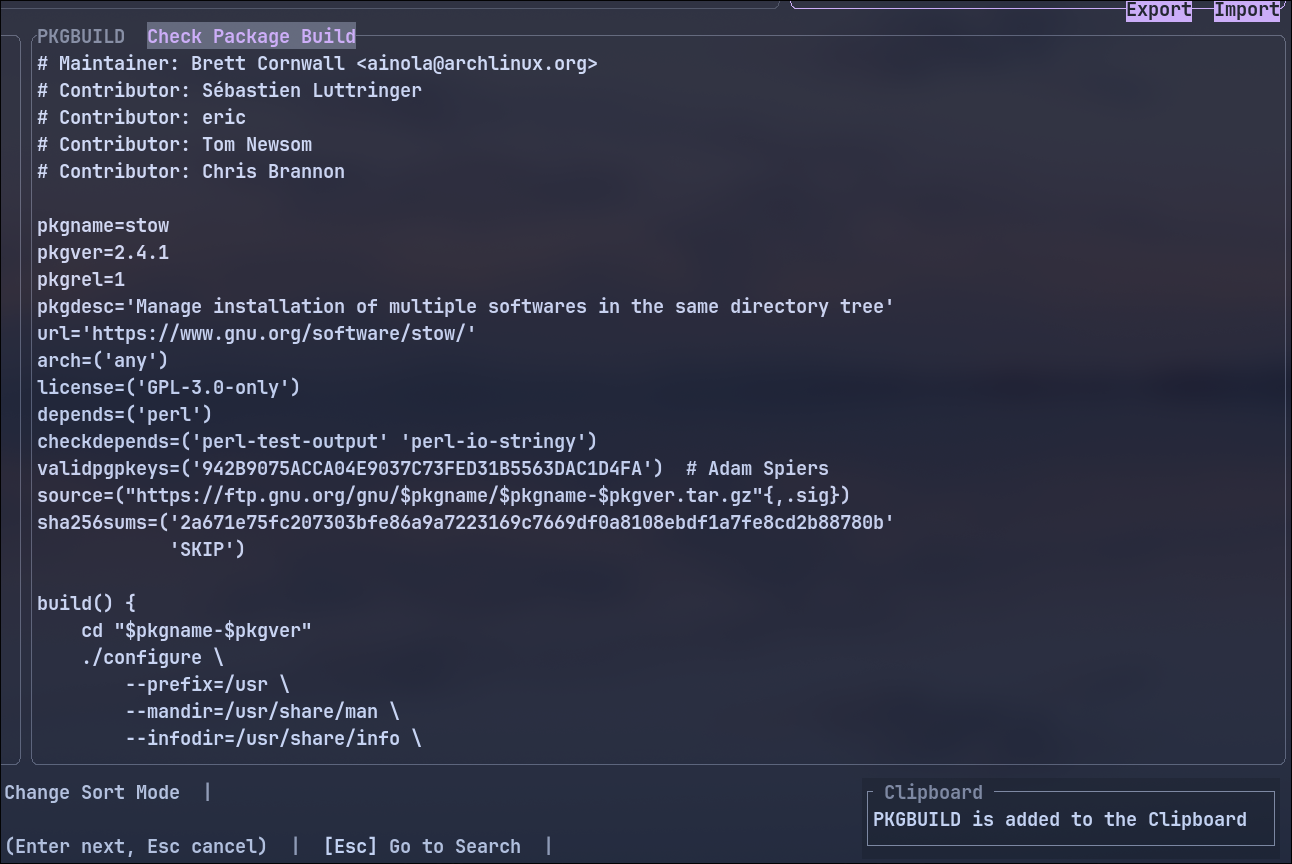
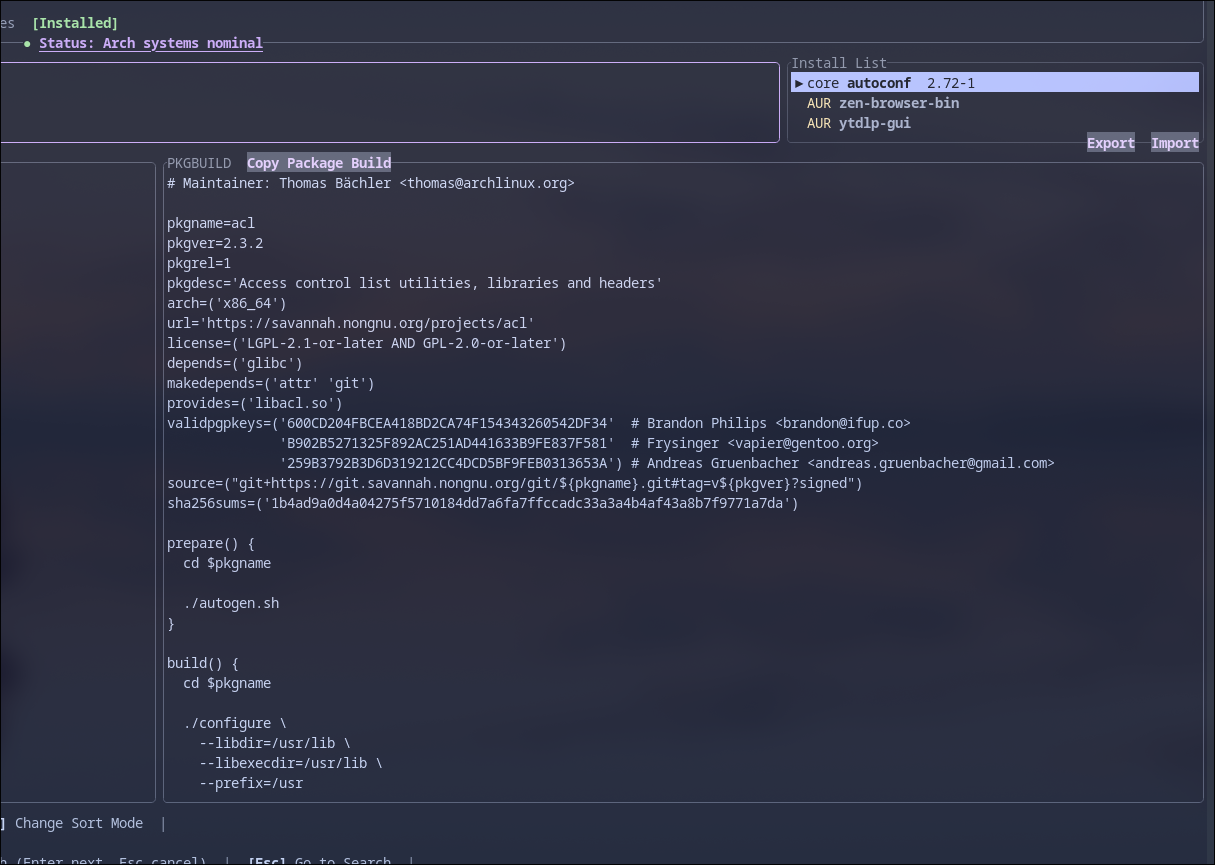
- renamed "Check PKGBUILD..." button to "Copy PKGBUILD..." for clarity - PKGBUILD Image update

diff --git a/src/events/mouse.rs b/src/events/mouse.rs
@@ -14,7 +14,7 @@ use crate::logic::move_sel_cached;
 /// Behavior summary:
 /// - Clickable URL in the details pane with Ctrl+Shift+LeftClick (opens via `xdg-open`).
 /// - Clickable "Show/Hide PKGBUILD" action in the details content.
-/// - Clickable "Check Package Build" button in the PKGBUILD title (copies to clipboard).
+/// - Clickable "Copy Package Build" button in the PKGBUILD title (copies to clipboard).
 /// - Clickable Sort button and filter toggles in the Results title.
 /// - Click-to-select in Results; mouse wheel scroll moves selection in Results/Recent/Install.
 /// - Mouse wheel scroll within the PKGBUILD viewer scrolls the content.
@@ -184,7 +184,7 @@ pub fn handle_mouse_event(
         return false;
     }
 
-    // 2b) Click on "Check Package Build" title button
+    // 2b) Click on "Copy Package Build" title button
     if is_left_down
         && let Some((x, y, w, h)) = app.pkgb_check_button_rect
         && mx >= x

diff --git a/src/ui/details.rs b/src/ui/details.rs
@@ -147,8 +147,8 @@ pub fn render_details(f: &mut Frame, app: &mut AppState, area: Rect) {
             visible.push_str(line);
             visible.push('\n');
         }
-        // Title with clickable "Check Package Build" button
-        let check_button_label = "Check Package Build".to_string();
+        // Title with clickable "Copy Package Build" button
+        let check_button_label = "Copy Package Build".to_string();
         let mut pkgb_title_spans: Vec<Span> =
             vec![Span::styled("PKGBUILD", Style::default().fg(th.overlay1))];
         pkgb_title_spans.push(Span::raw("  "));

diff --git a/src/state/app_state.rs b/src/state/app_state.rs
@@ -149,7 +149,7 @@ pub struct AppState {
     // Clickable PKGBUILD button rectangle and viewer state
     /// Rectangle of the clickable "Show PKGBUILD" in terminal cell coordinates.
     pub pkgb_button_rect: Option<(u16, u16, u16, u16)>,
-    /// Rectangle of the clickable "Check Package Build" button in PKGBUILD title.
+    /// Rectangle of the clickable "Copy Package Build" button in PKGBUILD title.
     pub pkgb_check_button_rect: Option<(u16, u16, u16, u16)>,
     /// Whether the PKGBUILD viewer is visible (details pane split in half).
     pub pkgb_visible: bool,

diff --git a/src/ui/modals.rs b/src/ui/modals.rs
@@ -580,7 +580,7 @@ pub fn render_modals(f: &mut Frame, app: &mut AppState, area: Rect) {
                 "  • Toggle PKGBUILD: click 'Show PKGBUILD' in details",
             )));
             lines.push(Line::from(Span::raw(
-                "  • Copy 'Check Package Build': click the title button in PKGBUILD",
+                "  • Copy 'Copy Package Build': click the title button in PKGBUILD",
             )));
             lines.push(Line::from(Span::raw(
                 "  • Open details URL: Ctrl+Shift+Left click on the URL",

diff --git a/README.md b/README.md
@@ -156,7 +156,7 @@ cargo run
 ## Troubleshooting
 - **AUR search errors**: Check your network and try again.
 - **Installs don’t start**: Ensure you have a terminal installed (e.g. alacritty, kitty, xterm) and `sudo` working in a terminal.
-- **PKGBUILD copy**: For the “Check Package Build” button, install `wl-clipboard` (Wayland) or `xclip` (X11).
+- **PKGBUILD copy**: For the "Copy Package Build” button, install `wl-clipboard` (Wayland) or `xclip` (X11).
 
 ## Roadmap
 - Vote or suggest features: [Feature discussion](https://github.com/Firstp1ck/Pacsea/discussions/4)
